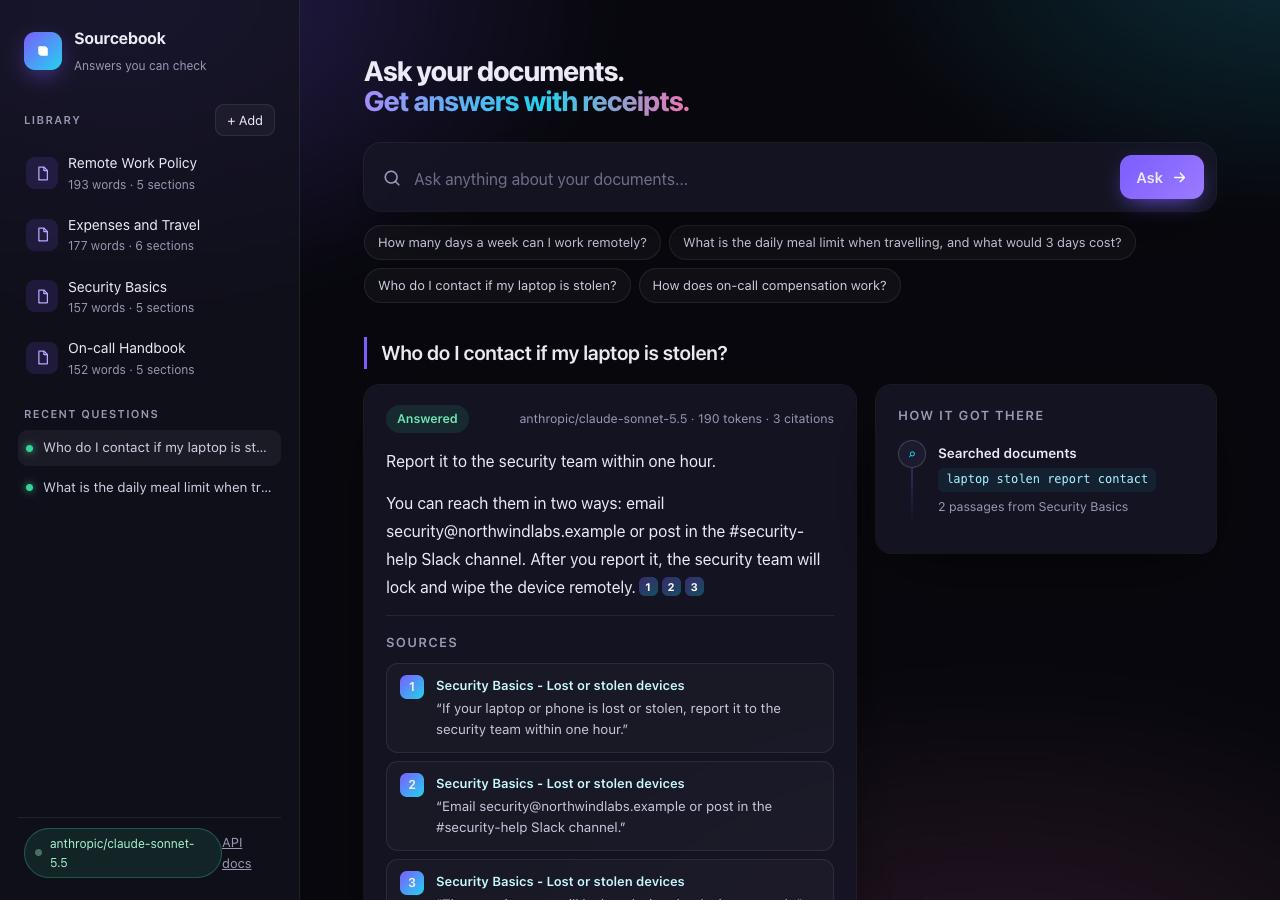
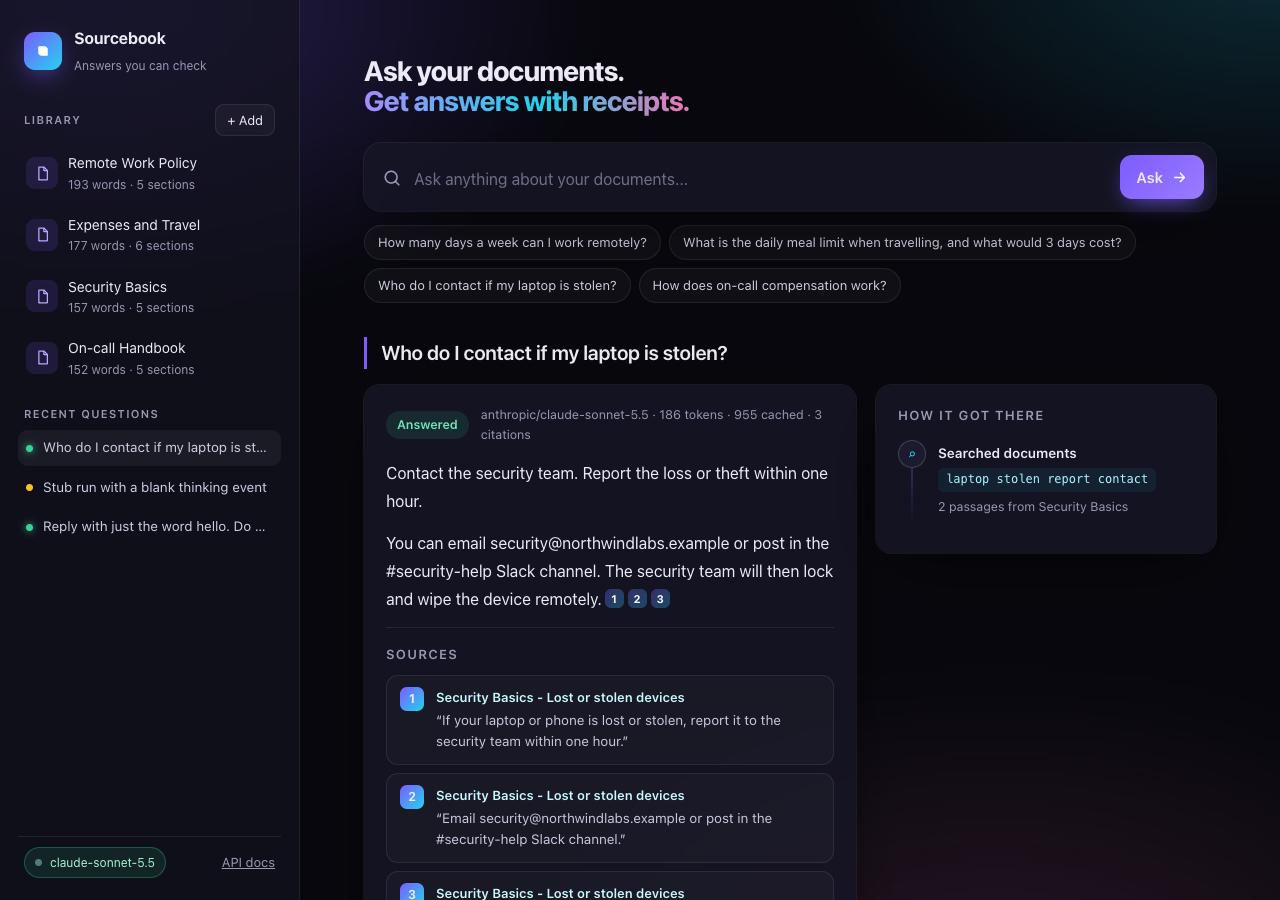
UI: fit sidebar footer on one line; screenshots for replay, 1440 width and no-trace note

diff --git a/src/sourcebook/web/static/app.css b/src/sourcebook/web/static/app.css
@@ -125,12 +125,14 @@ a { color: inherit; }
 .dot-pending { background: var(--warn); }
 .empty-history { padding: 4px 8px; }
 
-.sidebar-foot { margin-top: auto; display: flex; justify-content: space-between; align-items: center; padding: 10px 6px 0; border-top: 1px solid var(--line); }
+.sidebar-foot { margin-top: auto; gap: 10px; display: flex; justify-content: space-between; align-items: center; padding: 10px 6px 0; border-top: 1px solid var(--line); }
 .provider-pill {
   display: inline-flex; align-items: center; gap: 8px; font-size: 12px;
   padding: 5px 10px; border-radius: 99px; background: rgba(251, 191, 36, 0.1); color: #fde68a;
-  border: 1px solid rgba(251, 191, 36, 0.25);
+  border: 1px solid rgba(251, 191, 36, 0.25); min-width: 0;
 }
+.provider-name { min-width: 0; white-space: nowrap; overflow: hidden; text-overflow: ellipsis; }
+.nowrap { white-space: nowrap; flex: none; }
 .provider-pill.is-live { background: rgba(52, 211, 153, 0.1); color: #a7f3d0; border-color: rgba(52, 211, 153, 0.3); }
 .pulse { width: 7px; height: 7px; border-radius: 50%; background: currentColor; animation: pulse 2s infinite; }
 @keyframes pulse { 50% { opacity: 0.35; } }

diff --git a/src/sourcebook/web/templates/index.html b/src/sourcebook/web/templates/index.html
@@ -51,11 +51,11 @@
       </section>
 
       <footer class="sidebar-foot">
-        <span class="provider-pill {{ 'is-live' if provider != 'fake' else '' }}">
+        <span class="provider-pill {{ 'is-live' if provider != 'fake' else '' }}" title="{{ 'Demo model (no API key)' if provider == 'fake' else provider }}">
           <span class="pulse"></span>
-          {% if provider == 'fake' %}Demo model (no API key){% else %}{{ provider }}{% endif %}
+          <span class="provider-name">{% if provider == 'fake' %}Demo model (no API key){% else %}{{ provider.rsplit('/', 1)[-1] }}{% endif %}</span>
         </span>
-        <a href="/docs" class="muted small">API docs</a>
+        <a href="/docs" class="muted small nowrap">API docs</a>
       </footer>
     </aside>
 

diff --git a/README.md b/README.md
@@ -232,7 +232,7 @@ There is no authentication: this is a single-user demo. A multi-user deployment 
 
 ### Known limits
 
-- **Thinking summaries are optional.** Sonnet 5.5 sent none for the questions tested through OpenRouter, so the trace shows only tool steps (or a short note when the model answered directly). The UI never renders an empty thinking step. Effort is not raised just to force one.
+- **Thinking summaries are optional.** Sonnet 5.5 sent one for a plain greeting at medium effort but none at low effort, so the trace may show only tool steps, or a short note when the model answered directly (screenshot: `docs/screenshots/sb-live-notrace.png`). The UI never renders an empty thinking step. Effort is not raised just to force one.
 
 - Beyond the stubbed unit tests, the Claude provider was run live once, through OpenRouter (see above). The demo-model screenshots and API tests do not call a model.
 - No rate limiting: each question costs model tokens, so put a limit in front of a public deployment.
